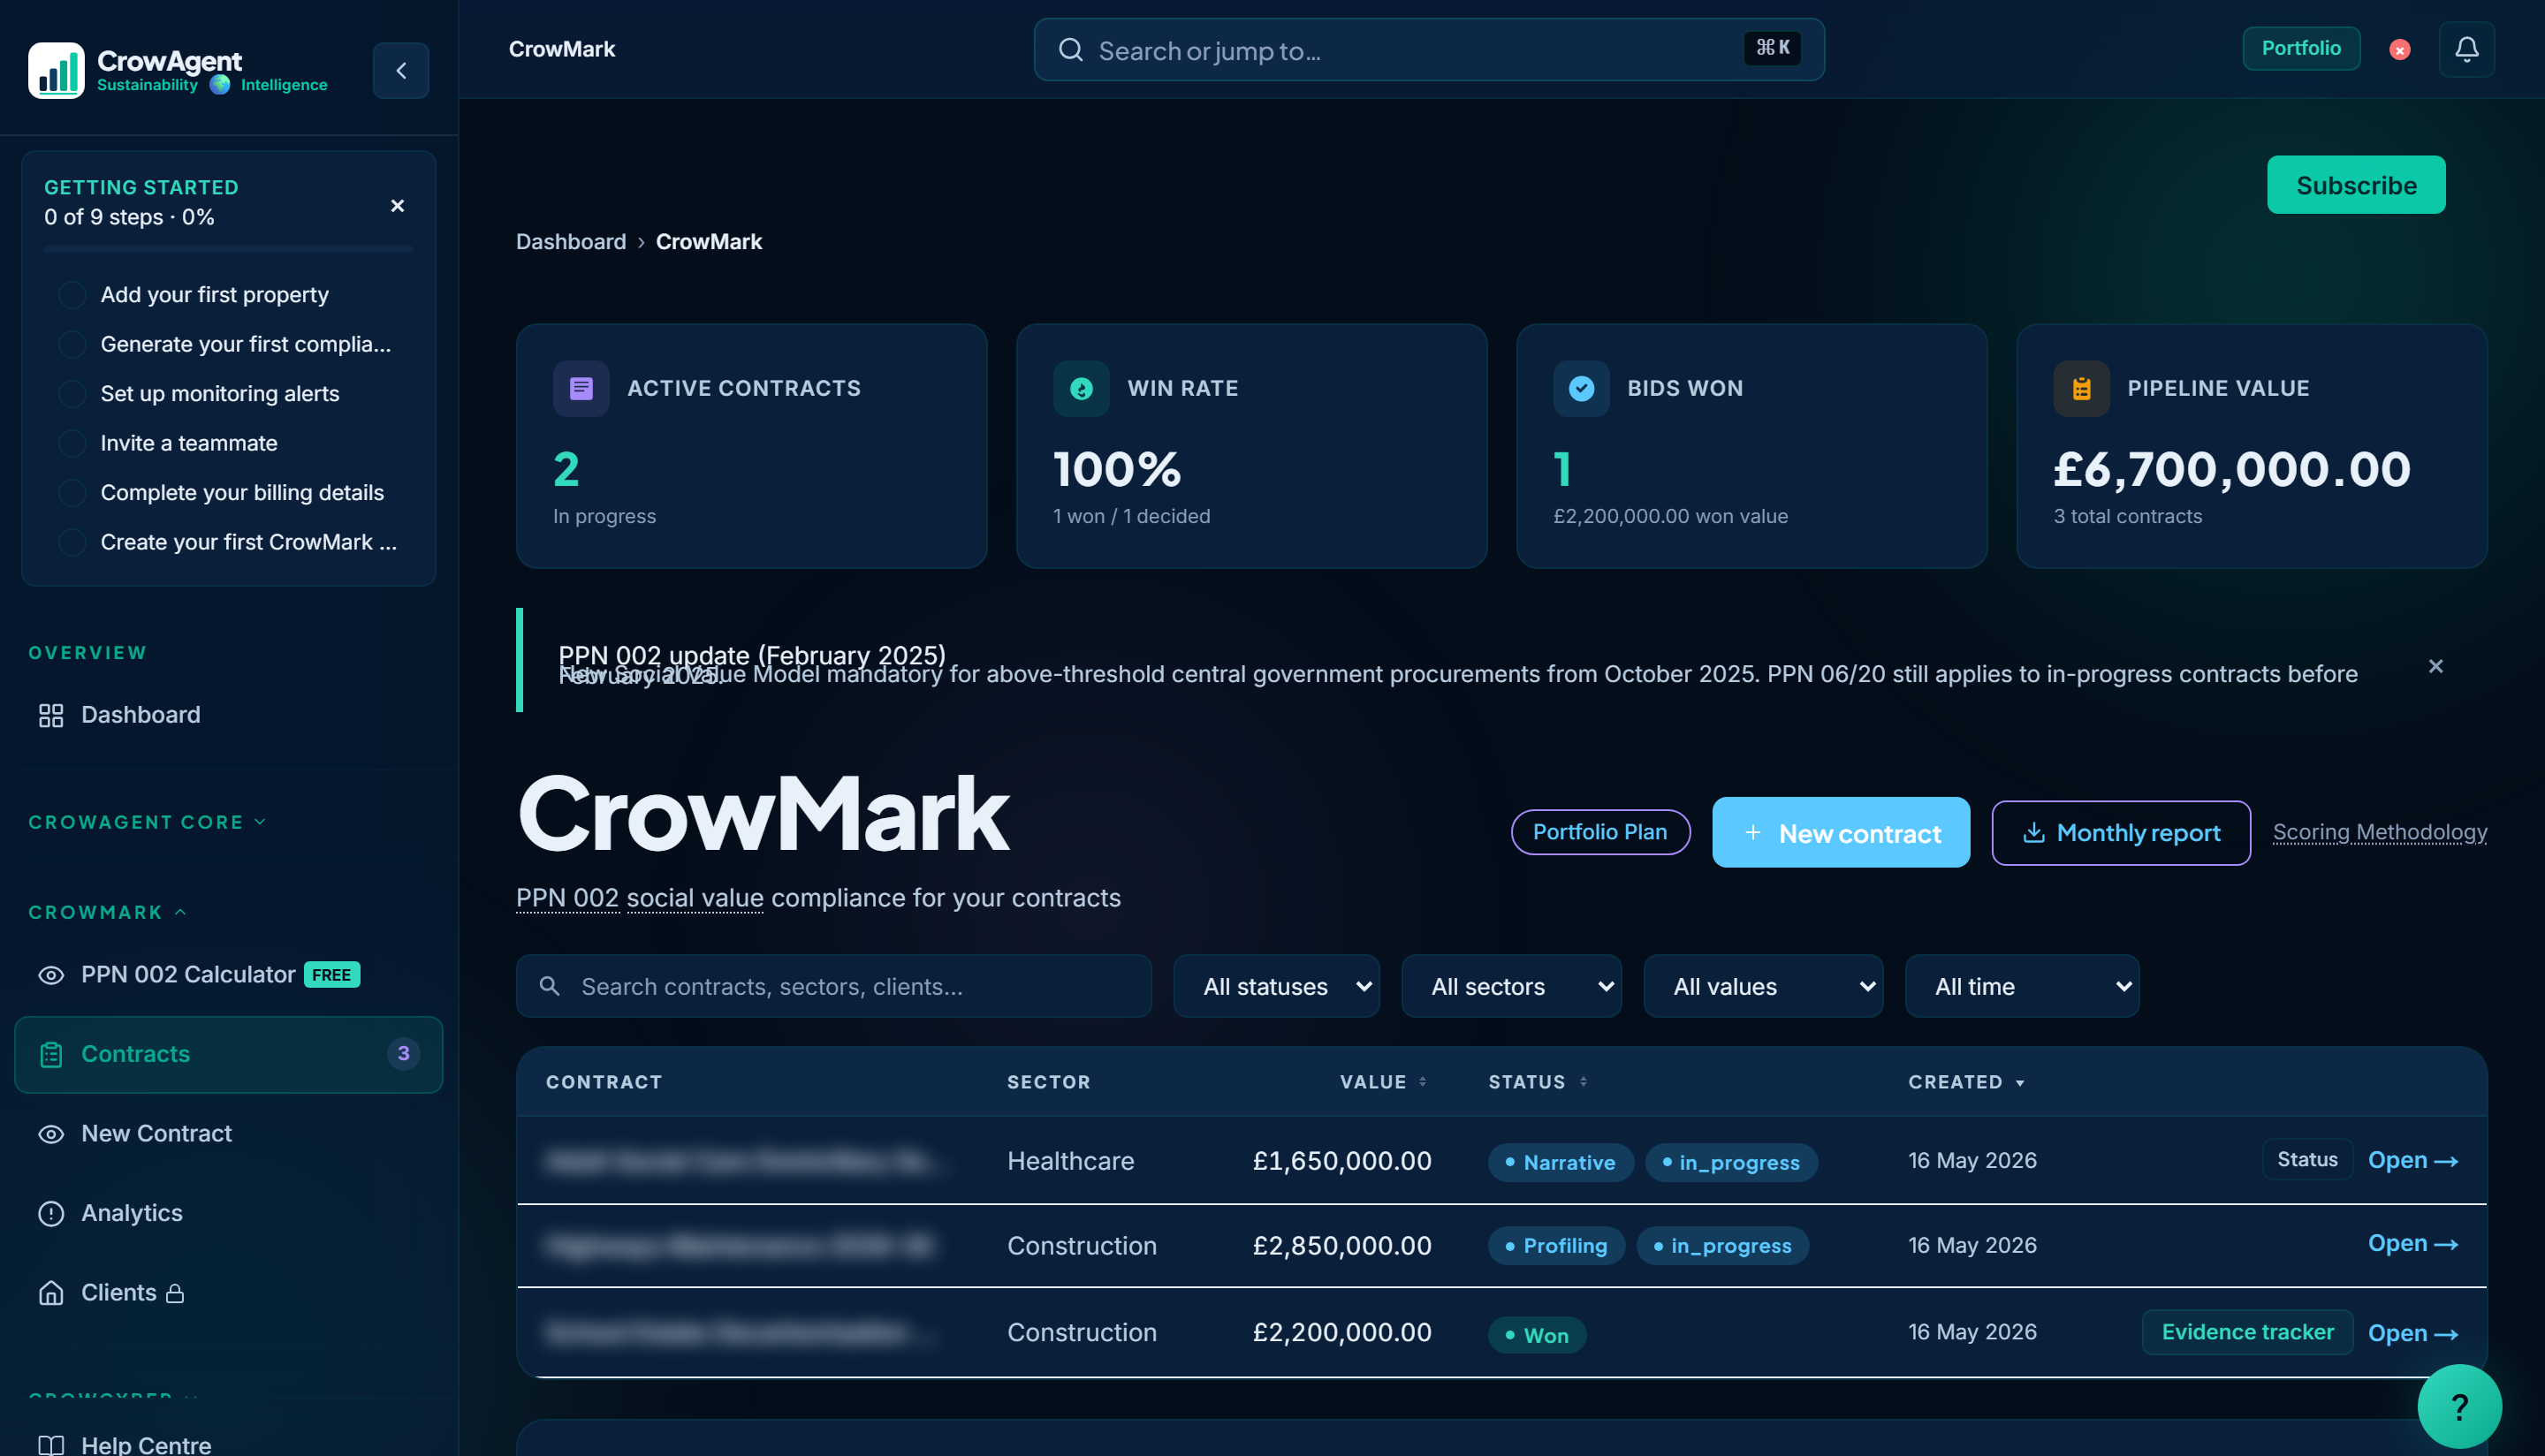
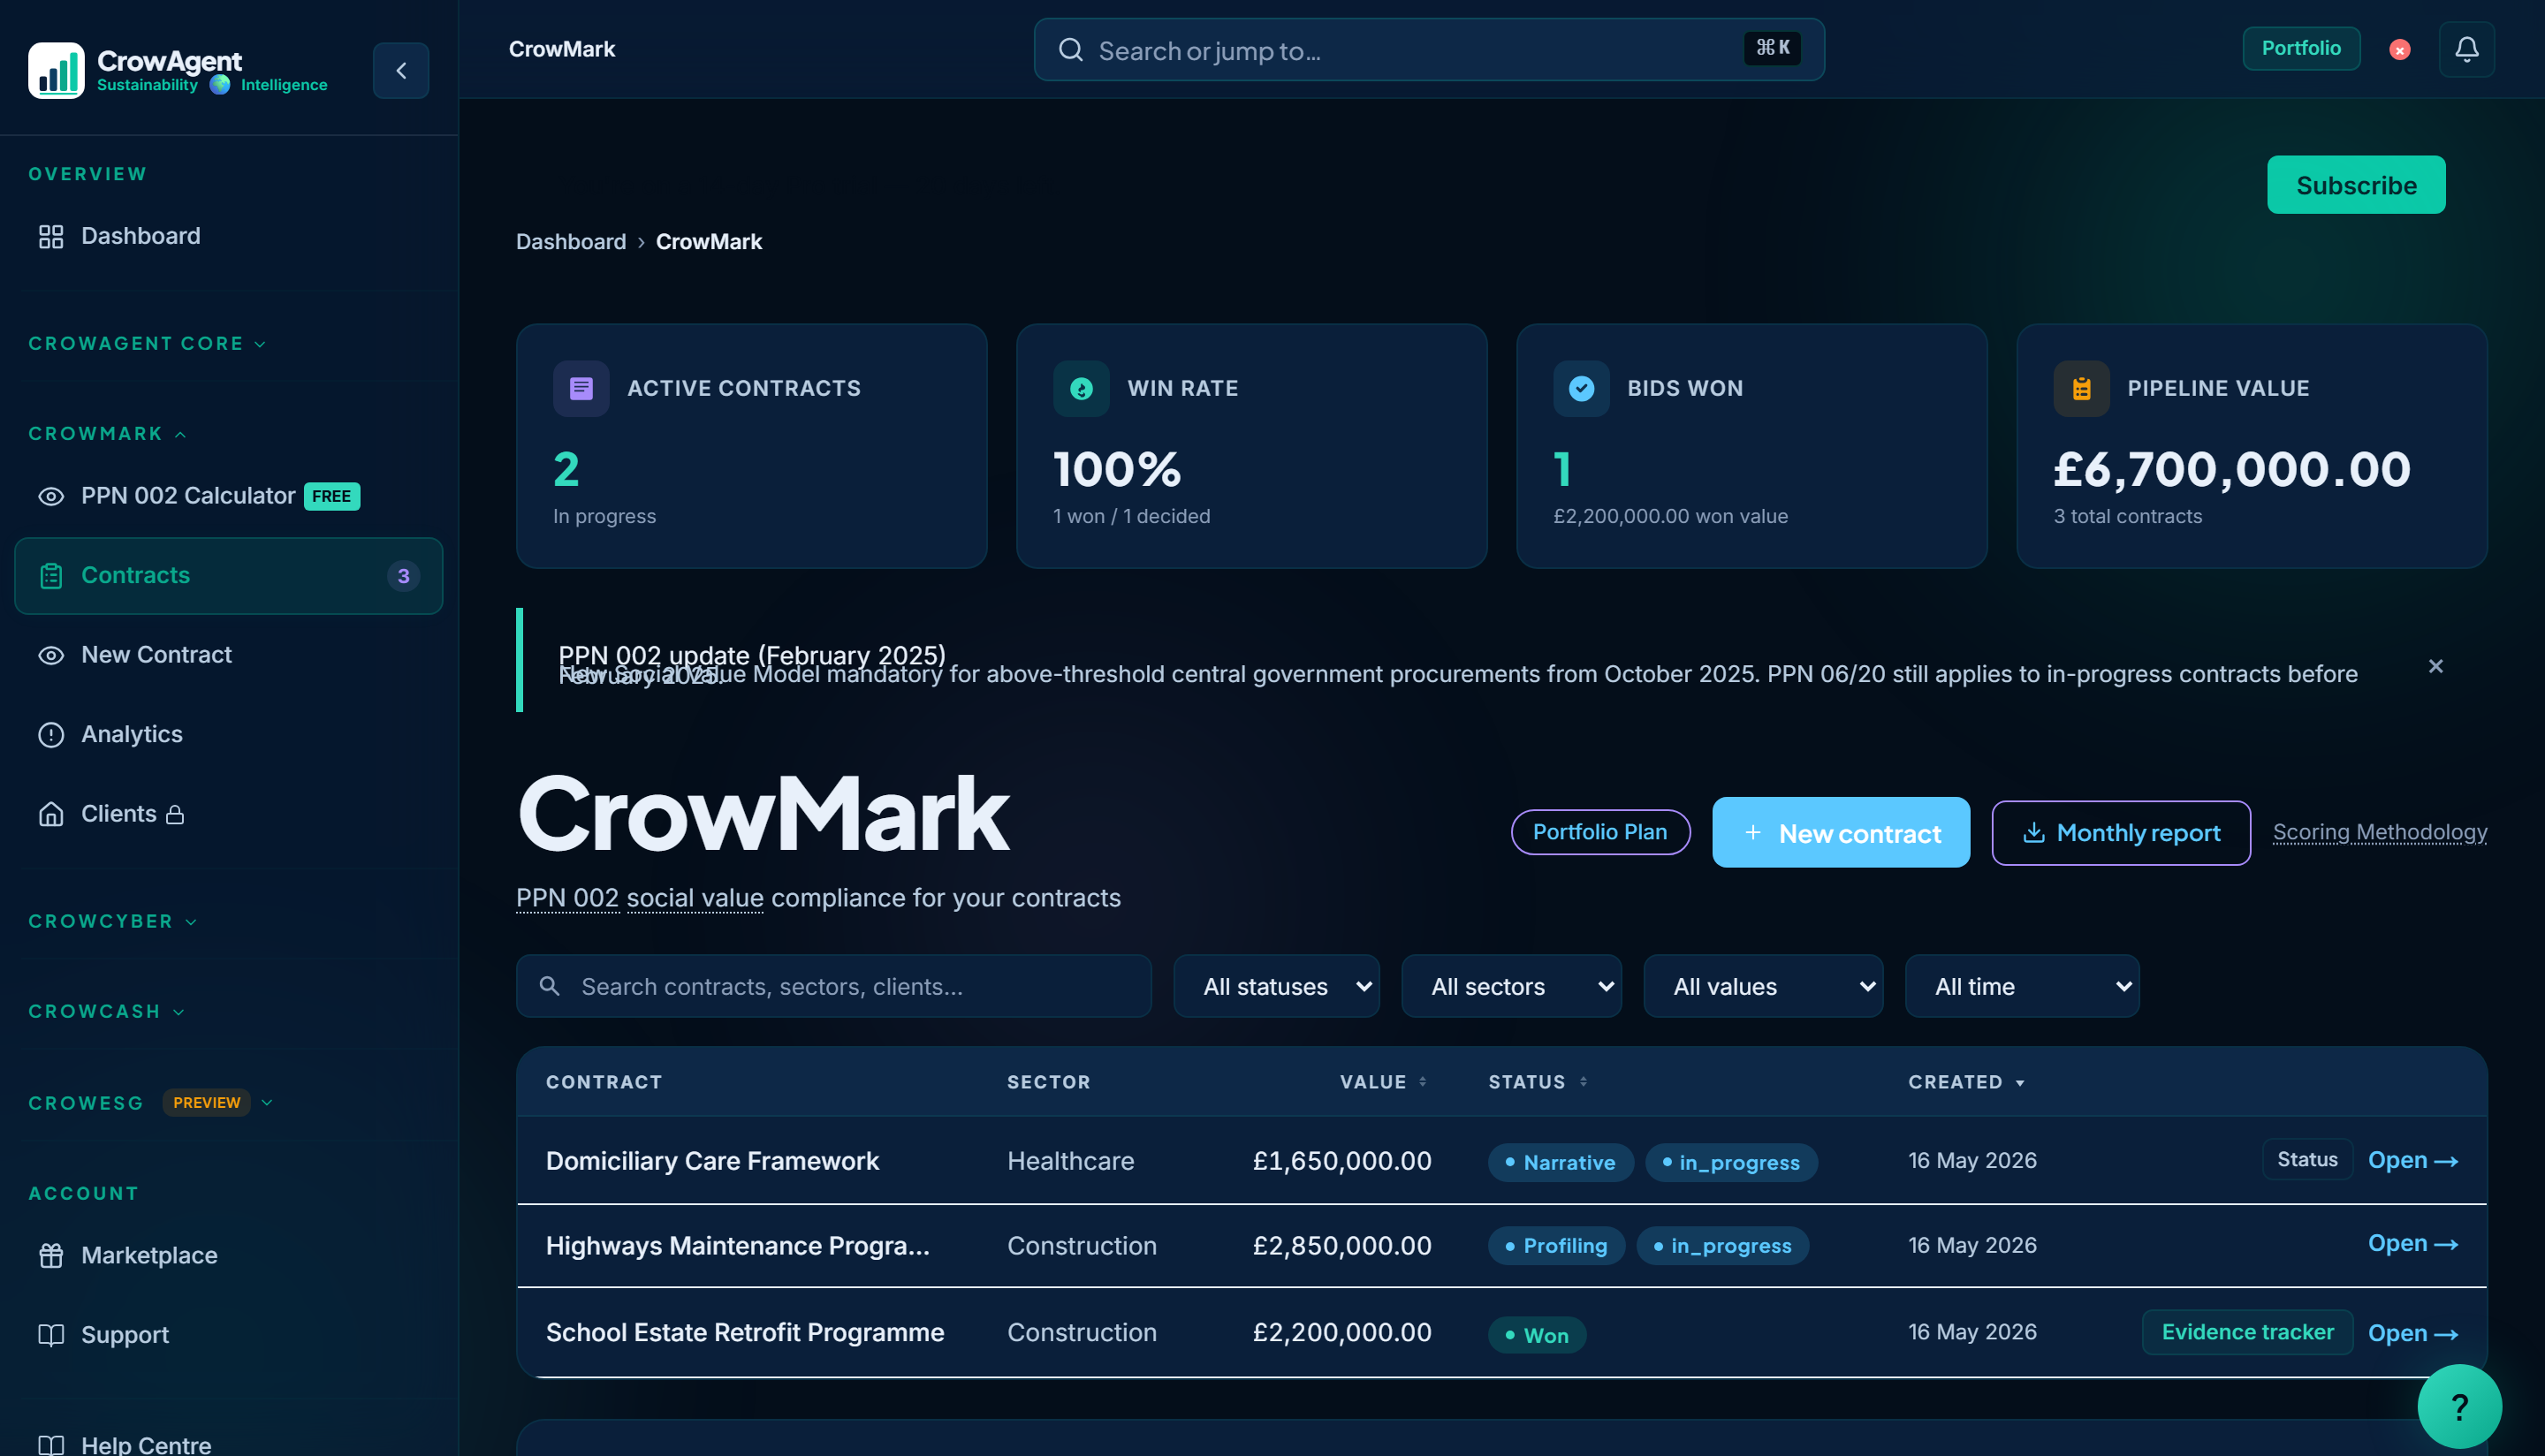
transform(showcase): real Cyber/Cash/Mark screens + honest CrowESG preview
PRIMARY products (CrowCyber, CrowCash, CrowMark) now lead the product showcase
with genuine app.crowagent.ai screens; SECONDARY (Core, ESG) follow.

Root cause of prior gaps:
- Real customer data (addresses, councils) could not be reliably redacted
  ("10 Downing Street" leaked through blur). Fixed by seeding the test org
  with SAMPLE/dummy data so captures are privacy-safe with no blur needed.
- CrowCyber read 0% because seeded cyber_answers used invalid question_ids;
  the readiness lib matches against the embedded CE bank (fw-001..pm-008).
  Re-seeded all 44 CE answers (38 compliant -> 86%) + 6 matching cyber_gaps.
- Onboarding "Getting started" sidebar widget intruded on captures; suppressed
  via its localStorage flag + DOM removal in the capture pipeline.

Changes:
- index.html: homepage carousel rebuilt to 4 REAL slides, Cyber-first
  (CrowCyber 86% readiness, CrowCash GBP91,250 ageing, CrowMark GBP6.7M
  pipeline, Core property portfolio). Truthful alt + captions.
- crowcyber.html / crowcash.html: framed real screenshots added (prior
  "screenshot will slot in here" placeholders now fulfilled).
- crowagent-core.html: switched to the clean property-portfolio shot
  (dummy "Demo City" addresses; removes the empty-EPC-chart analytics view).
- crowmark.html: refreshed shot + alt (sample data, no real client names).
- crowesg.html: CrowESG is unlaunched (Q3 2026), so NO real screenshot is
  claimed. Added an HONEST design-preview mockup (_crowesg-mock.html), framed
[…]

diff --git a/Assets/product-shots/_crowesg-mock.html b/Assets/product-shots/_crowesg-mock.html
@@ -1,0 +1,146 @@
+<!doctype html>
+<!-- CrowESG SAMPLE/PREVIEW mockup — CrowESG is a planned (not-yet-live) product.
+     This is an authorised made-up design preview, rendered and screenshotted for
+     the marketing carousel. It is labelled "Preview" in the carousel caption so it
+     is never misrepresented as a live screen. Visual language mirrors the live
+     CrowAgent app (dark obsidian, teal accent, left sidebar + topbar) so it sits
+     natively alongside the real product screenshots. No real customer data. -->
+<html lang="en">
+<head>
+<meta charset="utf-8">
+<style>
+  :root{
+    --bg:#040E1A; --panel:#0A1626; --panel2:#0D1B2E; --card:#0C1A2B;
+    --border:rgba(255,255,255,.07); --border2:rgba(255,255,255,.04);
+    --teal:#0CC9A8; --teal-dim:rgba(12,201,168,.14);
+    --cloud:#EAF1F6; --steel:#8A9BAC; --mist:#5C6E80; --amber:#E6A23C;
+  }
+  *{margin:0;padding:0;box-sizing:border-box;font-family:'Inter',-apple-system,BlinkMacSystemFont,'Segoe UI',Roboto,sans-serif;}
+  html,body{background:var(--bg);width:1440px;height:824px;overflow:hidden;}
+  .app{display:grid;grid-template-columns:236px 1fr;height:824px;}
+  /* sidebar */
+  .side{background:var(--panel);border-right:1px solid var(--border);padding:18px 0;display:flex;flex-direction:column;gap:2px;}
+  .brand{display:flex;align-items:center;gap:9px;padding:0 18px 16px;}
+  .brand .mark{width:26px;height:26px;border-radius:7px;background:linear-gradient(135deg,var(--teal),#0a9d84);display:flex;align-items:center;justify-content:center;}
+  .brand .mark svg{width:15px;height:15px;}
+  .brand .name{color:var(--cloud);font-weight:700;font-size:15px;letter-spacing:-.2px;}
+  .brand .tag{color:var(--teal);font-size:8px;font-weight:600;letter-spacing:.4px;text-transform:uppercase;display:block;margin-top:1px;}
+  .navgrp{padding:10px 14px 2px;color:var(--mist);font-size:10px;font-weight:600;letter-spacing:.7px;text-transform:uppercase;}
+  .navitem{display:flex;align-items:center;gap:10px;padding:7px 18px;color:var(--steel);font-size:13px;font-weight:500;}
+  .navitem .ico{width:15px;height:15px;opacity:.8;}
+  .navitem.active{color:var(--teal);background:var(--teal-dim);border-left:2px solid var(--teal);padding-left:16px;}
+  .navitem.parent{color:var(--cloud);font-weight:600;}
+  .pill{margin-left:auto;font-size:8px;font-weight:700;letter-spacing:.4px;padding:2px 6px;border-radius:5px;background:rgba(230,162,60,.16);color:var(--amber);text-transform:uppercase;}
+  /* main */
+  .main{overflow:hidden;}
+  .top{height:54px;border-bottom:1px solid var(--border);display:flex;align-items:center;gap:14px;padding:0 26px;}
+  .search{flex:1;max-width:430px;height:34px;border-radius:9px;background:var(--panel2);border:1px solid var(--border);display:flex;align-items:center;padding:0 12px;color:var(--mist);font-size:12.5px;gap:8px;}
+  .badge{margin-left:auto;font-size:11px;font-weight:600;color:var(--teal);border:1px solid rgba(12,201,168,.3);border-radius:7px;padding:5px 11px;}
+  .bell{width:30px;height:30px;border-radius:8px;background:var(--panel2);border:1px solid var(--border);display:flex;align-items:center;justify-content:center;color:var(--steel);}
+  .content{padding:26px 30px;}
+  .h1row{display:flex;align-items:flex-end;gap:14px;margin-bottom:4px;}
+  h1{color:var(--cloud);font-size:38px;font-weight:700;letter-spacing:-1px;}
+  .preview-chip{font-size:10px;font-weight:700;letter-spacing:.6px;text-transform:uppercase;color:var(--bg);background:var(--teal);padding:4px 9px;border-radius:6px;margin-bottom:7px;}
+  .sub{color:var(--steel);font-size:13.5px;margin-bottom:22px;}
+  .kpis{display:grid;grid-template-columns:repeat(4,1fr);gap:14px;margin-bottom:18px;}
+  .kpi{background:var(--card);border:1px solid var(--border);border-radius:12px;padding:16px 18px;}
+  .kpi .lab{color:var(--mist);font-size:10.5px;font-weight:600;letter-spacing:.5px;text-transform:uppercase;margin-bottom:9px;}
+  .kpi .val{color:var(--cloud);font-size:27px;font-weight:700;letter-spacing:-.5px;}
+  .kpi .val.teal{color:var(--teal);}
+  .kpi .meta{color:var(--steel);font-size:11px;margin-top:5px;}
+  .grid2{display:grid;grid-template-columns:1.35fr 1fr;gap:14px;}
+  .card{background:var(--card);border:1px solid var(--border);border-radius:12px;padding:20px;}
+  .card h3{color:var(--cloud);font-size:15px;font-weight:600;margin-bottom:3px;}
+  .card .csub{color:var(--mist);font-size:11.5px;margin-bottom:16px;}
+  /* materiality matrix */
+  .matrix{position:relative;height:230px;border-left:1.5px solid var(--border);border-bottom:1.5px solid var(--border);margin:6px 10px 4px 6px;}
+  .ax-y{position:absolute;left:-46px;top:50%;transform:rotate(-90deg);color:var(--mist);font-size:10px;letter-spacing:.4px;}
+  .ax-x{position:absolute;bottom:-20px;left:50%;transform:translateX(-50%);color:var(--mist);font-size:10px;letter-spacing:.4px;}
+  .gl{position:absolute;left:0;right:0;border-top:1px dashed var(--border2);}
+  .dot{position:absolute;border-radius:50%;display:flex;align-items:center;justify-content:center;color:var(--bg);font-size:9px;font-weight:700;box-shadow:0 2px 10px rgba(0,0,0,.3);}
+  .dot.hi{background:var(--teal);} .dot.md{background:#3FA7C4;} .dot.lo{background:var(--mist);}
+  /* coverage rows */
+  .row{margin-bottom:13px;}
+  .row .rt{display:flex;justify-content:space-between;font-size:12px;margin-bottom:5px;}
+  .row .rt .n{color:var(--cloud);} .row .rt .p{color:var(--steel);}
+  .bar{height:7px;border-radius:5px;background:var(--panel2);overflow:hidden;}
+  .bar > i{display:block;height:100%;background:var(--teal);border-radius:5px;}
+  .legend{display:flex;gap:16px;margin-top:14px;}
+  .legend span{display:flex;align-items:center;gap:6px;color:var(--steel);font-size:11px;}
+  .legend i{width:9px;height:9px;border-radius:50%;}
+</style>
+</head>
+<body>
+<div class="app">
+  <aside class="side">
+    <div class="brand">
+      <span class="mark"><svg viewBox="0 0 24 24" fill="none" stroke="#04101a" stroke-width="2.4"><path d="M3 18c4-9 14-9 18 0"/><circle cx="12" cy="7" r="2.2" fill="#04101a" stroke="none"/></svg></span>
+      <span><span class="name">CrowAgent</span><span class="tag">Sustainability Intelligence</span></span>
+    </div>
+    <div class="navgrp">Overview</div>
+    <div class="navitem"><svg class="ico" viewBox="0 0 24 24" fill="none" stroke="currentColor" stroke-width="2"><rect x="3" y="3" width="7" height="7" rx="1"/><rect x="14" y="3" width="7" height="7" rx="1"/><rect x="3" y="14" width="7" height="7" rx="1"/><rect x="14" y="14" width="7" height="7" rx="1"/></svg>Dashboard</div>
+    <div class="navgrp">CrowAgent Core</div>
+    <div class="navitem parent"><svg class="ico" viewBox="0 0 24 24" fill="none" stroke="currentColor" stroke-width="2"><path d="M3 9l9-6 9 6v11a1 1 0 0 1-1 1H4a1 1 0 0 1-1-1z"/></svg>Properties</div>
+    <div class="navgrp">CrowMark</div>
+    <div class="navitem parent"><svg class="ico" viewBox="0 0 24 24" fill="none" stroke="currentColor" stroke-width="2"><path d="M9 11l3 3L22 4"/><path d="M21 12v7a2 2 0 0 1-2 2H5a2 2 0 0 1-2-2V5a2 2 0 0 1 2-2h11"/></svg>Contracts</div>
+    <div class="navgrp">CrowCyber</div>
+    <div class="navitem parent"><svg class="ico" viewBox="0 0 24 24" fill="none" stroke="currentColor" stroke-width="2"><path d="M12 22s8-4 8-10V5l-8-3-8 3v7c0 6 8 10 8 10z"/></svg>Readiness</div>
+    <div class="navgrp">CrowCash</div>
+    <div class="navitem parent"><svg class="ico" viewBox="0 0 24 24" fill="none" stroke="currentColor" stroke-width="2"><path d="M12 1v22"/><path d="M17 5H9.5a3.5 3.5 0 0 0 0 7h5a3.5 3.5 0 0 1 0 7H6"/></svg>Credit control</div>
+    <div class="navgrp">CrowESG</div>
+    <div class="navitem active"><svg class="ico" viewBox="0 0 24 24" fill="none" stroke="currentColor" stroke-width="2"><path d="M12 2a9 9 0 0 0-9 9c0 5 9 11 9 11s9-6 9-11a9 9 0 0 0-9-9z"/><path d="M12 7v8M8.5 9.5l3.5 2 3.5-2"/></svg>VSME report <span class="pill">Preview</span></div>
+    <div class="navitem"><svg class="ico" viewBox="0 0 24 24" fill="none" stroke="currentColor" stroke-width="2"><circle cx="12" cy="12" r="9"/><path d="M12 8v8M8 12h8"/></svg>Materiality</div>
+    <div class="navitem"><svg class="ico" viewBox="0 0 24 24" fill="none" stroke="currentColor" stroke-width="2"><path d="M3 3v18h18"/><path d="M7 14l4-4 3 3 5-6"/></svg>Carbon</div>
+  </aside>
+  <main class="main">
+    <div class="top">
+      <div class="search"><svg width="14" height="14" viewBox="0 0 24 24" fill="none" stroke="currentColor" stroke-width="2"><circle cx="11" cy="11" r="7"/><path d="m21 21-4-4"/></svg>Search or jump to…</div>
+      <span class="badge">Portfolio</span>
+      <span class="bell"><svg width="15" height="15" viewBox="0 0 24 24" fill="none" stroke="currentColor" stroke-width="2"><path d="M18 8a6 6 0 0 0-12 0c0 7-3 9-3 9h18s-3-2-3-9"/><path d="M13.7 21a2 2 0 0 1-3.4 0"/></svg></span>
+    </div>
+    <div class="content">
+      <div class="h1row"><h1>CrowESG</h1><span class="preview-chip">Preview</span></div>
+      <p class="sub">VSME sustainability reporting and double-materiality, aligned to the EFRAG Voluntary SME standard. Launching Q3 2026.</p>
+      <div class="kpis">
+        <div class="kpi"><div class="lab">VSME disclosures</div><div class="val">37 / 42</div><div class="meta">Basic + comprehensive modules</div></div>
+        <div class="kpi"><div class="lab">Material topics</div><div class="val teal">9</div><div class="meta">Double-materiality screen</div></div>
+        <div class="kpi"><div class="lab">Scope 1 + 2 (location)</div><div class="val">128 tCO₂e</div><div class="meta">Reporting year 2025</div></div>
+        <div class="kpi"><div class="lab">Data completeness</div><div class="val">88%</div><div class="meta">5 datapoints outstanding</div></div>
+      </div>
+      <div class="grid2">
+        <div class="card">
+          <h3>Double-materiality matrix</h3>
+          <p class="csub">Impact materiality (x) against financial materiality (y), scored across ESRS topic areas.</p>
+          <div class="matrix">
+            <span class="gl" style="bottom:25%"></span><span class="gl" style="bottom:50%"></span><span class="gl" style="bottom:75%"></span>
+            <span class="ax-y">Financial materiality</span>
+            <span class="ax-x">Impact materiality</span>
+            <span class="dot hi" style="width:40px;height:40px;left:74%;bottom:70%">E1</span>
+            <span class="dot hi" style="width:34px;height:34px;left:60%;bottom:58%">S1</span>
+            <span class="dot md" style="width:30px;height:30px;left:46%;bottom:44%">G1</span>
+            <span class="dot md" style="width:28px;height:28px;left:66%;bottom:34%">E5</span>
+            <span class="dot md" style="width:26px;height:26px;left:33%;bottom:52%">S4</span>
+            <span class="dot lo" style="width:22px;height:22px;left:24%;bottom:24%">E3</span>
+            <span class="dot lo" style="width:20px;height:20px;left:40%;bottom:18%">E2</span>
+          </div>
+          <div class="legend">
+            <span><i style="background:#0CC9A8"></i>High priority</span>
+            <span><i style="background:#3FA7C4"></i>Monitor</span>
+            <span><i style="background:#5C6E80"></i>Low priority</span>
+          </div>
+        </div>
+        <div class="card">
+          <h3>VSME module coverage</h3>
+          <p class="csub">Completeness by disclosure module against the EFRAG VSME basic standard.</p>
+          <div class="row"><div class="rt"><span class="n">B1–B2 General & basis</span><span class="p">100%</span></div><div class="bar"><i style="width:100%"></i></div></div>
+          <div class="row"><div class="rt"><span class="n">B3 Energy & GHG emissions</span><span class="p">92%</span></div><div class="bar"><i style="width:92%"></i></div></div>
+          <div class="row"><div class="rt"><span class="n">B4–B7 Pollution, water, biodiversity</span><span class="p">78%</span></div><div class="bar"><i style="width:78%"></i></div></div>
+          <div class="row"><div class="rt"><span class="n">B8–B9 Workforce</span><span class="p">95%</span></div><div class="bar"><i style="width:95%"></i></div></div>
+          <div class="row"><div class="rt"><span class="n">B10–B11 Governance & conduct</span><span class="p">83%</span></div><div class="bar"><i style="width:83%"></i></div></div>
+        </div>
+      </div>
+    </div>
+  </main>
+</div>
+</body>
+</html>

diff --git a/index.html b/index.html
@@ -382,17 +382,23 @@
     <div class="sh" style="text-align:center;margin-bottom:clamp(28px,4vh,48px);">
       <div class="sh-label">See it in action</div>
       <h2 id="hp-see-heading">The real product, not a mockup</h2>
-      <p class="steps-sub">Actual screens from the CrowAgent platform: MEES fine-exposure analytics, property portfolios, board-ready reports, and PPN 002 social-value scoring.</p>
+      <p class="steps-sub">Actual screens from the CrowAgent platform: Cyber Essentials readiness, credit-control ageing, PPN 002 social-value scoring, and your live property portfolio.</p>
     </div>
     <div class="pcar" data-pcar aria-roledescription="carousel" aria-label="CrowAgent product tour">
       <div class="pcar__frame">
         <div class="pcar__chrome"><span class="pcar__dot"></span><span class="pcar__dot"></span><span class="pcar__dot"></span><span class="pcar__url">app.crowagent.ai</span></div>
         <div class="pcar__viewport">
-          <figure class="pcar__slide is-active" data-caption="Portfolio MEES fine-exposure analytics, cited to SI 2015/962">
-            <img src="/Assets/product-shots/core-analytics.png?v=20260527" width="1440" height="822" loading="lazy" decoding="async" alt="CrowAgent Core analytics: total MEES fine exposure £175,000, EPC band distribution, and a compliance timeline showing 91% compliant against the proposed 2028 Band C standard">
+          <figure class="pcar__slide is-active" data-caption="CrowCyber: Cyber Essentials readiness scored across the five NCSC control themes">
+            <img src="/Assets/product-shots/cyber-overview.png?v=20260528" width="1440" height="822" loading="eager" decoding="async" alt="CrowCyber dashboard showing 86% Cyber Essentials readiness, per-theme progress across firewalls, secure configuration, user access control, malware protection and patch management, and a prioritised list of remediation gaps">
           </figure>
-          <figure class="pcar__slide" data-caption="PPN 002 social-value scoring against the National TOMs framework">
-            <img src="/Assets/product-shots/mark-overview.png?v=20260527" width="1440" height="822" loading="lazy" decoding="async" alt="CrowMark overview: PPN 002 social-value scoring against the National TOMs framework">
+          <figure class="pcar__slide" data-caption="CrowCash: live receivables and overdue exposure, aged by bucket">
+            <img src="/Assets/product-shots/cash-overview.png?v=20260528" width="1440" height="822" loading="lazy" decoding="async" alt="CrowCash credit-control dashboard showing £91,250 total receivables, a 132-day DSO, £69,650 overdue, and an ageing breakdown from current through to 120-plus days">
+          </figure>
+          <figure class="pcar__slide" data-caption="CrowMark: PPN 002 social-value scoring against the National TOMs framework">
+            <img src="/Assets/product-shots/mark-overview.png?v=20260528" width="1440" height="822" loading="lazy" decoding="async" alt="CrowMark overview showing active contracts worth £6.7M in pipeline, scored for PPN 002 social value against the National TOMs framework">
+          </figure>
+          <figure class="pcar__slide" data-caption="CrowAgent Core: your property portfolio with live MEES compliance status">
+            <img src="/Assets/product-shots/core-properties.png?v=20260528" width="1440" height="822" loading="lazy" decoding="async" alt="CrowAgent Core property portfolio listing commercial properties with their EPC bands and MEES compliance status, marked compliant, action needed or urgent">
           </figure>
         </div>
       </div>
@@ -401,10 +407,12 @@
           <svg width="16" height="16" viewBox="0 0 24 24" fill="none" stroke="currentColor" stroke-width="2" stroke-linecap="round" stroke-linejoin="round" aria-hidden="true"><polyline points="15 18 9 12 15 6"/></svg>
         </button>
         <div class="pcar__caption-wrap">
-          <p class="pcar__caption" aria-hidden="true">Portfolio MEES fine-exposure analytics, cited to SI 2015/962</p>
+          <p class="pcar__caption" aria-hidden="true">CrowCyber: Cyber Essentials readiness scored across the five NCSC control themes</p>
           <div class="pcar__dots-row" role="tablist" aria-label="Choose a product screen">
-            <button class="pcar__tab" type="button" role="tab" aria-selected="true" aria-label="MEES analytics"></button>
-            <button class="pcar__tab" type="button" role="tab" aria-selected="false" aria-label="PPN 002 scoring"></button>
+            <button class="pcar__tab" type="button" role="tab" aria-selected="true" aria-label="CrowCyber readiness"></button>
+            <button class="pcar__tab" type="button" role="tab" aria-selected="false" aria-label="CrowCash ageing"></button>
+            <button class="pcar__tab" type="button" role="tab" aria-selected="false" aria-label="CrowMark PPN 002 scoring"></button>
+            <button class="pcar__tab" type="button" role="tab" aria-selected="false" aria-label="Property portfolio"></button>
           </div>
         </div>
         <button class="pcar__nav-btn" data-pcar-next type="button" aria-label="Next screen">

diff --git a/crowcyber.html b/crowcyber.html
@@ -253,12 +253,21 @@
       <h2 id="cyber-carousel-heading" class="s2-section-h2">The five NCSC controls, end to end</h2>
       <p class="s2-section-intro">Cyber Essentials v3.3 (Danzell) is built on five technical control themes. CrowCyber guides you through all 44 CE questions plus the 22 CE+ questions across every one.</p>
     </div>
-    <!-- 2026-05-26 transform: removed the fabricated "87% readiness" gauge + invented
-         per-control percentages (100/100/92/100/60) + "9 days to certification"
-         (fake product metrics, forbidden by the truth rule — same pattern removed from
-         the homepage). Replaced with the REAL, factual five NCSC controls + the real
-         scope figures (44 CE + 22 CE+ questions, PPN 014/21 pack). A genuine product
-         screenshot will slot in here once captured from a healthy app.crowagent.ai. -->
+    <!-- 2026-05-28 transform: the genuine product screenshot the prior note promised is
+         now captured from a healthy app.crowagent.ai (test account, seeded with sample
+         data — no real organisation data, no fabricated metrics). It shows the real
+         readiness computation across the five NCSC themes. -->
+    <div class="pcar pcar--single" aria-label="CrowCyber readiness dashboard" style="margin-bottom:clamp(28px,4vw,44px);">
+      <div class="pcar__frame">
+        <div class="pcar__chrome"><span class="pcar__dot"></span><span class="pcar__dot"></span><span class="pcar__dot"></span><span class="pcar__url">app.crowagent.ai</span></div>
+        <div class="pcar__viewport">
+          <figure class="pcar__slide is-active" style="position:relative;">
+            <img src="/Assets/product-shots/cyber-overview.png?v=20260528" width="1440" height="822" loading="lazy" decoding="async" alt="CrowCyber dashboard showing 86% Cyber Essentials readiness, per-theme progress across firewalls, secure configuration, user access control, malware protection and patch management, and a prioritised list of remediation gaps (sample data)">
+          </figure>
+        </div>
+      </div>
+      <p class="pcar__caption" style="margin-top:clamp(16px,2vw,24px);">Readiness scored live across the five NCSC control themes, with a prioritised gap list. Sample data shown.</p>
+    </div>
     <div class="s2-card-grid s2-controls-grid">
       <article class="s2-card"><div class="s2-card__kicker">Control 1</div><h3 class="s2-card__title">Firewalls &amp; gateways</h3><p class="s2-card__body">Boundary firewalls and internet gateways configured to block unapproved services.</p></article>
       <article class="s2-card"><div class="s2-card__kicker">Control 2</div><h3 class="s2-card__title">Secure configuration</h3><p class="s2-card__body">Devices and software hardened from default builds; unnecessary functionality removed.</p></article>

diff --git a/crowesg.html b/crowesg.html
@@ -315,11 +315,22 @@
       <h2>One assessment, every major ESG framework</h2>
       <p class="steps-sub">A single double-materiality assessment, reported across the frameworks your stakeholders ask for. Launching Q3 2026.</p>
     </div>
-    <!-- 2026-05-26 transform: removed the fabricated "95% disclosure coverage at launch"
-         gauge + invented per-framework coverage %s (100/100/100/95/90) for an unlaunched
-         (Q3 2026) product — fake product metrics (truth rule). Replaced with the REAL
-         frameworks CrowESG maps to, no invented coverage numbers. A genuine product
-         screenshot will slot in here once the product ships. -->
+    <!-- 2026-05-28 transform: CrowESG is unlaunched (Q3 2026), so there is no real
+         screenshot to show. This is an HONEST design preview — a made-up sample screen
+         rendered in the live app's visual language and clearly labelled "Design preview".
+         It is NOT presented as a live product screen. No real data. The factual
+         framework grid below remains the substantive content. -->
+    <div class="pcar pcar--single" aria-label="CrowESG design preview" style="margin-bottom:clamp(28px,4vw,44px);">
+      <div class="pcar__frame">
+        <div class="pcar__chrome"><span class="pcar__dot"></span><span class="pcar__dot"></span><span class="pcar__dot"></span><span class="pcar__url">app.crowagent.ai &middot; preview</span></div>
+        <div class="pcar__viewport">
+          <figure class="pcar__slide is-active" style="position:relative;">
+            <img src="/Assets/product-shots/esg-sample.png?v=20260528" width="1440" height="824" loading="lazy" decoding="async" alt="Design preview of the planned CrowESG dashboard: a VSME double-materiality matrix and disclosure-module coverage bars. Illustrative sample, not a live product screen.">
+          </figure>
+        </div>
+      </div>
+      <p class="pcar__caption" style="margin-top:clamp(16px,2vw,24px);"><strong>Design preview</strong> &middot; CrowESG is in development, launching Q3 2026. Illustrative sample, not live data.</p>
+    </div>
     <div class="pfw-themes-grid">
       <article class="sv-card pfw-theme-card"><div class="pfw-kicker">EU</div><h3>CSRD / ESRS</h3><p>Double-materiality reporting under the European Sustainability Reporting Standards.</p></article>
       <article class="sv-card pfw-theme-card"><div class="pfw-kicker">Global</div><h3>GRI Standards</h3><p>The most widely used global standards for impact reporting.</p></article>

diff --git a/crowcash.html b/crowcash.html
@@ -252,11 +252,21 @@
       <h2 id="cash-carousel-heading" class="s2-section-h2">Your statutory entitlement, applied automatically</h2>
       <p class="s2-section-intro">Every overdue B2B invoice carries a statutory entitlement under the Late Payment of Commercial Debts (Interest) Act 1998. CrowCash calculates it, tracks ageing, and chases for you.</p>
     </div>
-    <!-- 2026-05-26 transform: removed the fabricated "78% recovered" gauge + invented
-         ageing-bucket %s (100/88/72/55/34) + "DSO 34 was 58 / £71,500 recovered this
-         quarter" — fake product metrics (truth rule). Replaced with the REAL statutory
-         entitlement, no invented figures. A genuine product screenshot will slot in here
-         once prod app.crowagent.ai is healthy. -->
+    <!-- 2026-05-28 transform: the genuine product screenshot the prior note promised is
+         now captured from a healthy app.crowagent.ai (test account, seeded with sample
+         data — no real debtors, no fabricated figures). It shows the real credit-control
+         dashboard with live ageing buckets. -->
+    <div class="pcar pcar--single" aria-label="CrowCash credit-control dashboard" style="margin-bottom:clamp(28px,4vw,44px);">
+      <div class="pcar__frame">
+        <div class="pcar__chrome"><span class="pcar__dot"></span><span class="pcar__dot"></span><span class="pcar__dot"></span><span class="pcar__url">app.crowagent.ai</span></div>
+        <div class="pcar__viewport">
+          <figure class="pcar__slide is-active" style="position:relative;">
+            <img src="/Assets/product-shots/cash-overview.png?v=20260528" width="1440" height="822" loading="lazy" decoding="async" alt="CrowCash credit-control dashboard showing £91,250 total receivables, a 132-day DSO, £69,650 overdue, and an ageing breakdown from current through to 120-plus days (sample data)">
+          </figure>
+        </div>
+      </div>
+      <p class="pcar__caption" style="margin-top:clamp(16px,2vw,24px);">Live receivables and overdue exposure, aged by bucket with DSO. Sample data shown.</p>
+    </div>
     <div class="pfw-themes-grid">
       <article class="sv-card pfw-theme-card"><div class="pfw-kicker">Interest</div><h3>Base rate + 8%</h3><p>Bank of England base rate plus 8% statutory interest on every overdue B2B invoice.</p></article>
       <article class="sv-card pfw-theme-card"><div class="pfw-kicker">Compensation</div><h3>&pound;40 / &pound;70 / &pound;100</h3><p>Fixed statutory compensation per invoice, by debt size (under &pound;1k / &pound;1k&ndash;10k / over &pound;10k).</p></article>

diff --git a/crowagent-core.html b/crowagent-core.html
@@ -339,20 +339,19 @@
       <h2>From EPC data to a defensible MEES position</h2>
       <p class="steps-sub">CrowAgent Core turns your EPC data into a clear MEES position for every property, then plans the route to the proposed 2028 Band C standard.</p>
     </div>
-    <!-- 2026-05-26 transform: fabricated "73% on track" gauge replaced with a premium
-         carousel of REAL CrowAgent Core screens (captured from app.crowagent.ai via the
-         test account; neutral data, no fabricated metrics). -->
-    <!-- single framed REAL screen (MEES analytics; identifying property data redacted in capture) -->
+    <!-- 2026-05-26 transform: fabricated "73% on track" gauge replaced with a
+         framed REAL CrowAgent Core screen (captured from app.crowagent.ai via the
+         test account, seeded with sample data — no real addresses, no fabricated metrics). -->
     <div class="pcar pcar--single" aria-label="CrowAgent Core product screen">
       <div class="pcar__frame">
         <div class="pcar__chrome"><span class="pcar__dot"></span><span class="pcar__dot"></span><span class="pcar__dot"></span><span class="pcar__url">app.crowagent.ai</span></div>
         <div class="pcar__viewport">
           <figure class="pcar__slide is-active" style="position:relative;">
-            <img src="/Assets/product-shots/core-analytics.png?v=20260527" width="1440" height="822" loading="lazy" decoding="async" alt="CrowAgent Core analytics: total MEES fine exposure £175,000, EPC band distribution, compliance timeline 91% against the proposed 2028 Band C standard (sample data, identifying details redacted)">
+            <img src="/Assets/product-shots/core-properties.png?v=20260528" width="1440" height="822" loading="lazy" decoding="async" alt="CrowAgent Core property portfolio listing commercial properties with their EPC bands and MEES compliance status, marked compliant, action needed or urgent (sample data)">
           </figure>
         </div>
       </div>
-      <p class="pcar__caption" style="margin-top:clamp(16px,2vw,24px);">Portfolio-wide MEES fine exposure, cited to SI 2015/962. Sample data, identifying details redacted.</p>
+      <p class="pcar__caption" style="margin-top:clamp(16px,2vw,24px);">Your portfolio with a live MEES position for every property. Sample data shown.</p>
     </div>
   </div>
 </section>

diff --git a/crowmark.html b/crowmark.html
@@ -288,17 +288,17 @@
     <!-- 2026-05-26 transform: fabricated "88% scorecard" replaced with a premium carousel
          of REAL CrowMark screens (captured from app.crowagent.ai via the test account;
          neutral data, no fabricated metrics). -->
-    <!-- single framed REAL screen (one validated CrowMark view; sensitive data redacted in capture) -->
+    <!-- single framed REAL screen (CrowMark overview; seeded with sample data — no real client or authority names) -->
     <div class="pcar pcar--single" aria-label="CrowMark product screen">
       <div class="pcar__frame">
         <div class="pcar__chrome"><span class="pcar__dot"></span><span class="pcar__dot"></span><span class="pcar__dot"></span><span class="pcar__url">app.crowagent.ai</span></div>
         <div class="pcar__viewport">
           <figure class="pcar__slide is-active" style="position:relative;">
-            <img src="/Assets/product-shots/mark-overview.png?v=20260527" width="1440" height="822" loading="lazy" decoding="async" alt="CrowMark overview: active contracts, pipeline value, and PPN 002 social-value compliance against the National TOMs framework (sample data, identifying details redacted)">
+            <img src="/Assets/product-shots/mark-overview.png?v=20260528" width="1440" height="822" loading="lazy" decoding="async" alt="CrowMark overview showing active contracts worth £6.7M in pipeline, scored for PPN 002 social value against the National TOMs framework (sample data)">
           </figure>
         </div>
       </div>
-      <p class="pcar__caption" style="margin-top:clamp(16px,2vw,24px);">PPN 002 social-value scoring across your live contracts. Sample data, identifying details redacted.</p>
+      <p class="pcar__caption" style="margin-top:clamp(16px,2vw,24px);">PPN 002 social-value scoring across your live contracts. Sample data shown.</p>
     </div>
   </div>
 </section>

diff --git a/SESSION-RESUME-WEBSITE-TRANSFORMATION.md b/SESSION-RESUME-WEBSITE-TRANSFORMATION.md
@@ -7,6 +7,19 @@
 
 ---
 
+## ★★ LATEST STATE — 2026-05-26/27 (REAL-PRODUCT CAROUSELS + DUMMY-DATA SEED) — READ FIRST
+**Strategy (CTO):** PRIMARY products = **CrowCyber, CrowCash, CrowMark**; SECONDARY = CrowAgent Core, CrowESG. Carousels must use REAL app.crowagent.ai screens. To avoid privacy leaks (real addresses like "10 Downing Street" couldn't be reliably blurred), CTO directed: **delete/overwrite real data with safe DUMMY data, then capture** (no redaction needed). CrowESG is future/unbuilt → OK to create a designed SAMPLE/made-up screen.
+
+**DB seeding DONE (prod Supabase `gujtuecjzfiqsdnzgyvo`, test org `4b0bffc2-efe2-425c-afb8-84369e7f6517`, user `5c2c168e...`):**
+- `assets` (11): real addresses → dummy ("Northgate Plaza…Demo City", DM postcodes). `reports.asset_address` (15) → dummy. `crowmark_contracts` (3): real councils → "Demo City/Borough Council, Demo Government Department" + generic contract names.
+- `cash_invoices` (7, £91,250) + `cash_debtors` (3: Northwind/Acme/Summit Trading, .example emails) seeded across ageing buckets (was £0).
+- `cyber_assessments` e825976f → overall_score=86, status in_progress; `cyber_answers` 26 across 5 themes (was 0%).
+- **CLEANUP NOTE:** these are dummy rows on the test org — can be deleted later if needed (cash_invoices/cash_debtors where org=test; cyber_answers qid like 'fw-101'). Keep for screenshots.
+
+**Carousel system:** `Assets/css/product-carousel-2026-05-26.css` + `js/modules/product-carousel-2026-05-26.js` (`[data-pcar]`: browser-chrome frame, crossfade, dot tabs, prev/next, pause hover/off-screen, reduced-motion, a11y). Single-image variant `.pcar--single`.
+**Capture pipeline:** `tests/_realcap9.js` — Playwright login (creds in [[project_e2e_test_user_state]]) → wait-for-content marker → JS-remove driver-tour/NPS/banners (NO clicks) → 404-guard → clip {0,0,1440,824}. **VERIFY EVERY shot by READING the PNG** (a 404-page slip happened when only checking text-length).
+**IN FLIGHT:** re-capturing cyber/cash/mark/core (dummy data) → rebuild carousels prioritising Cyber/Cash/Mark; build CrowESG sample screen; homepage carousel currently 2 safe slides (analytics+mark). Branch `transform/site-premium-2026-05-26`, NO push.
+
 ## ★ LATEST STATE — 2026-05-25 checkpoint #2 (READ FIRST)
 **Git:** branch `main`, **62 commits ahead of origin, 0 PUSHED** (local-only; CTO has NOT given `APPROVED FOR PUSH — main`). Working tree clean. Disk: 18.5 GB free.
 **CTO is about to provide DETAILED transformation actions — await them, then execute root-cause + pixel-verify, local-only.**